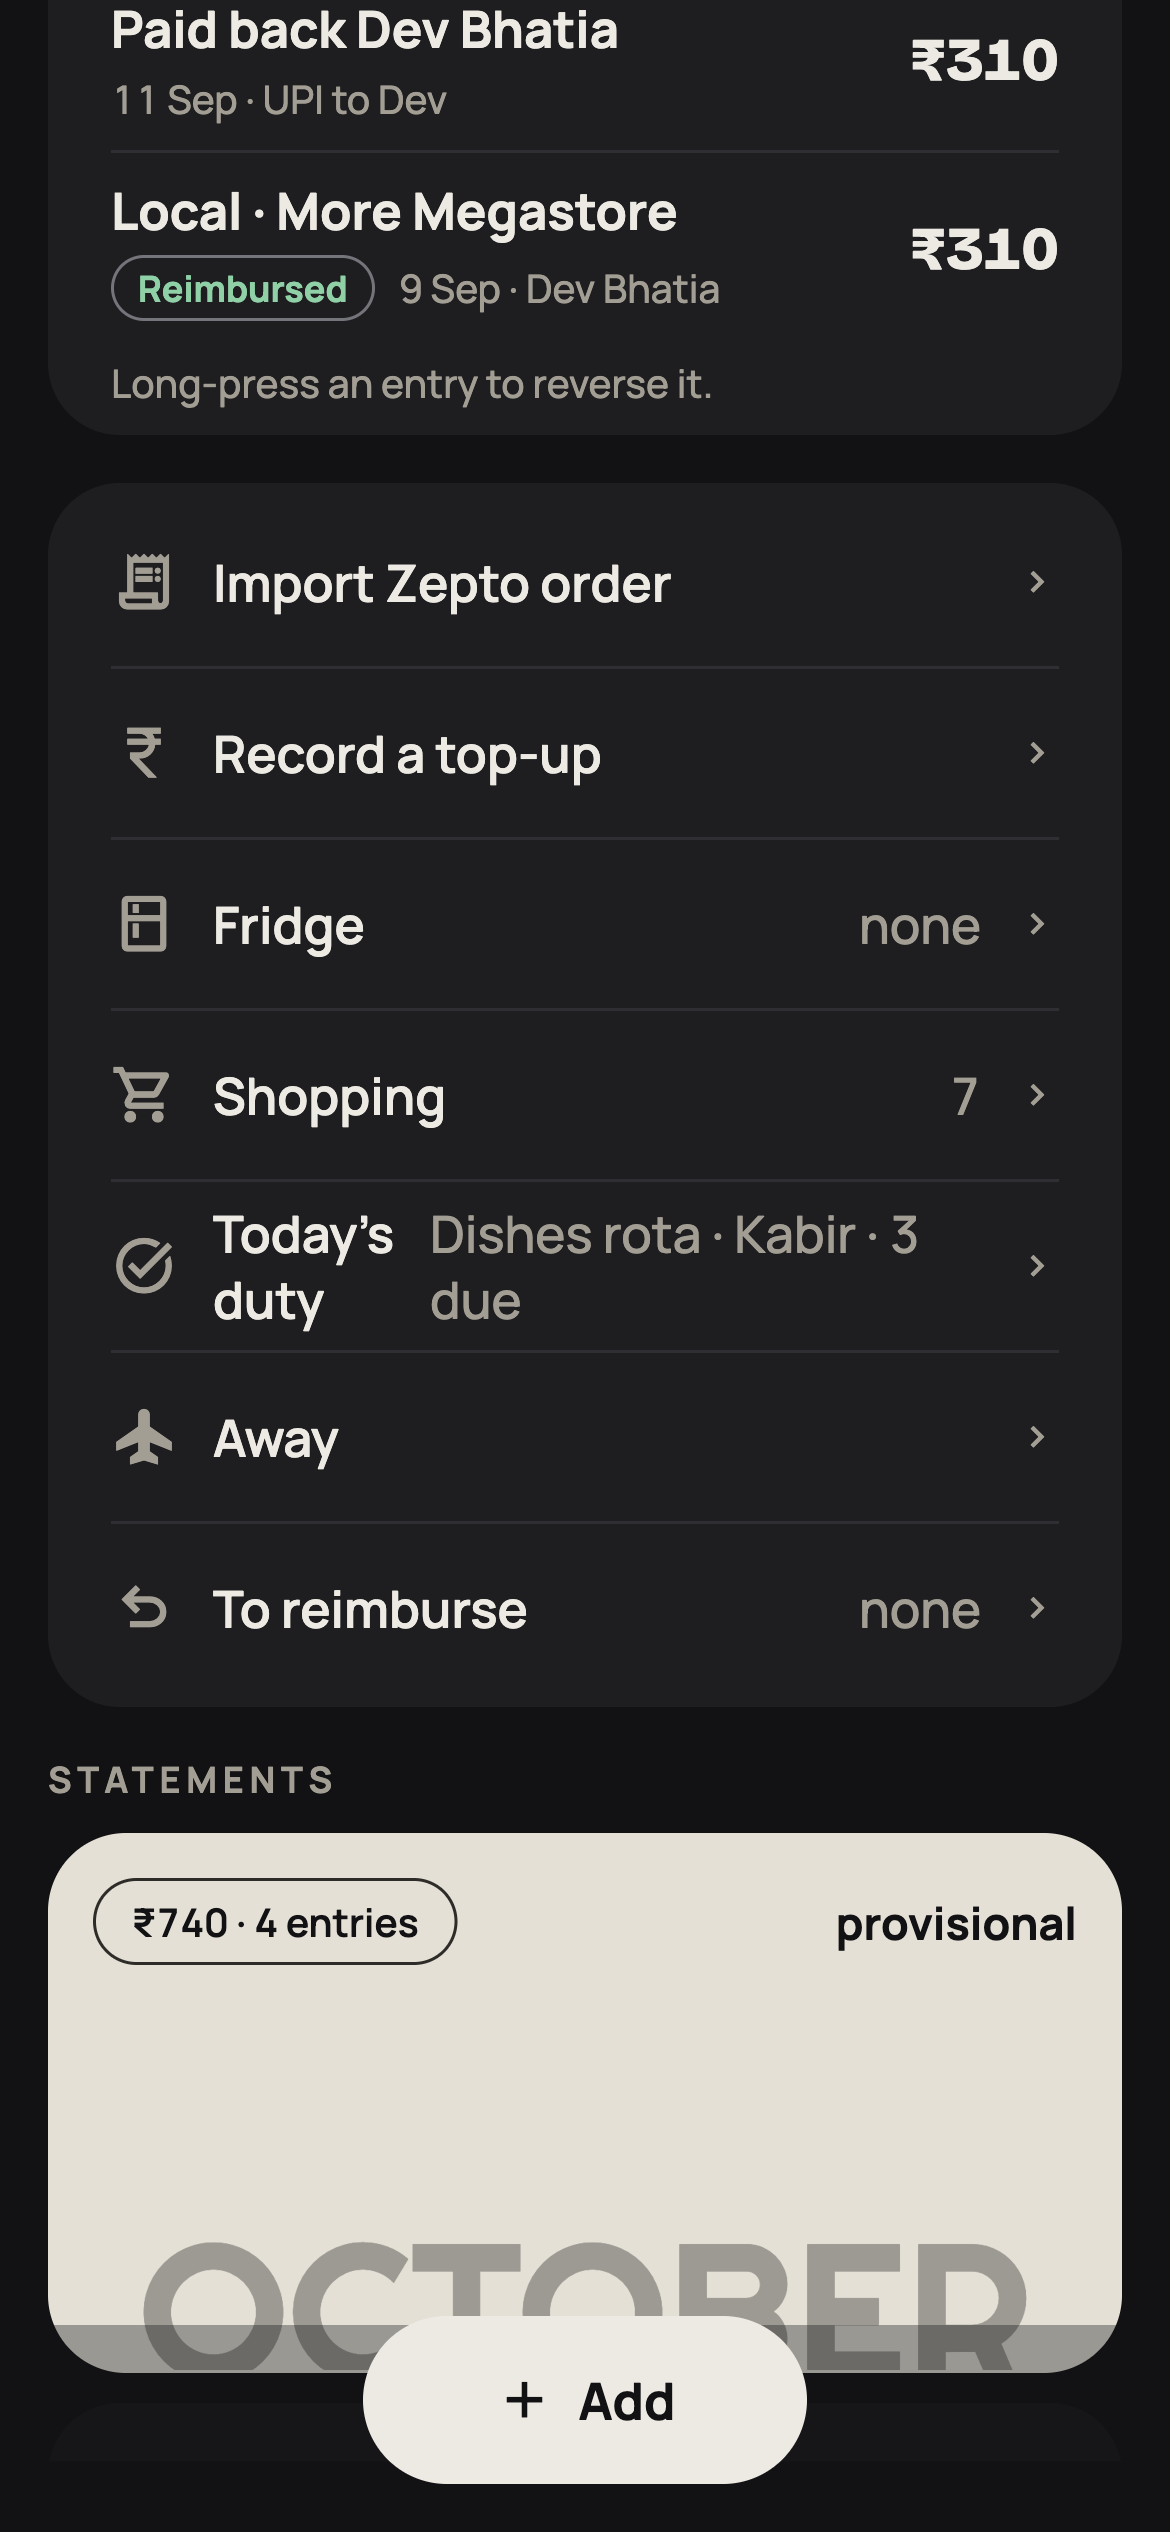
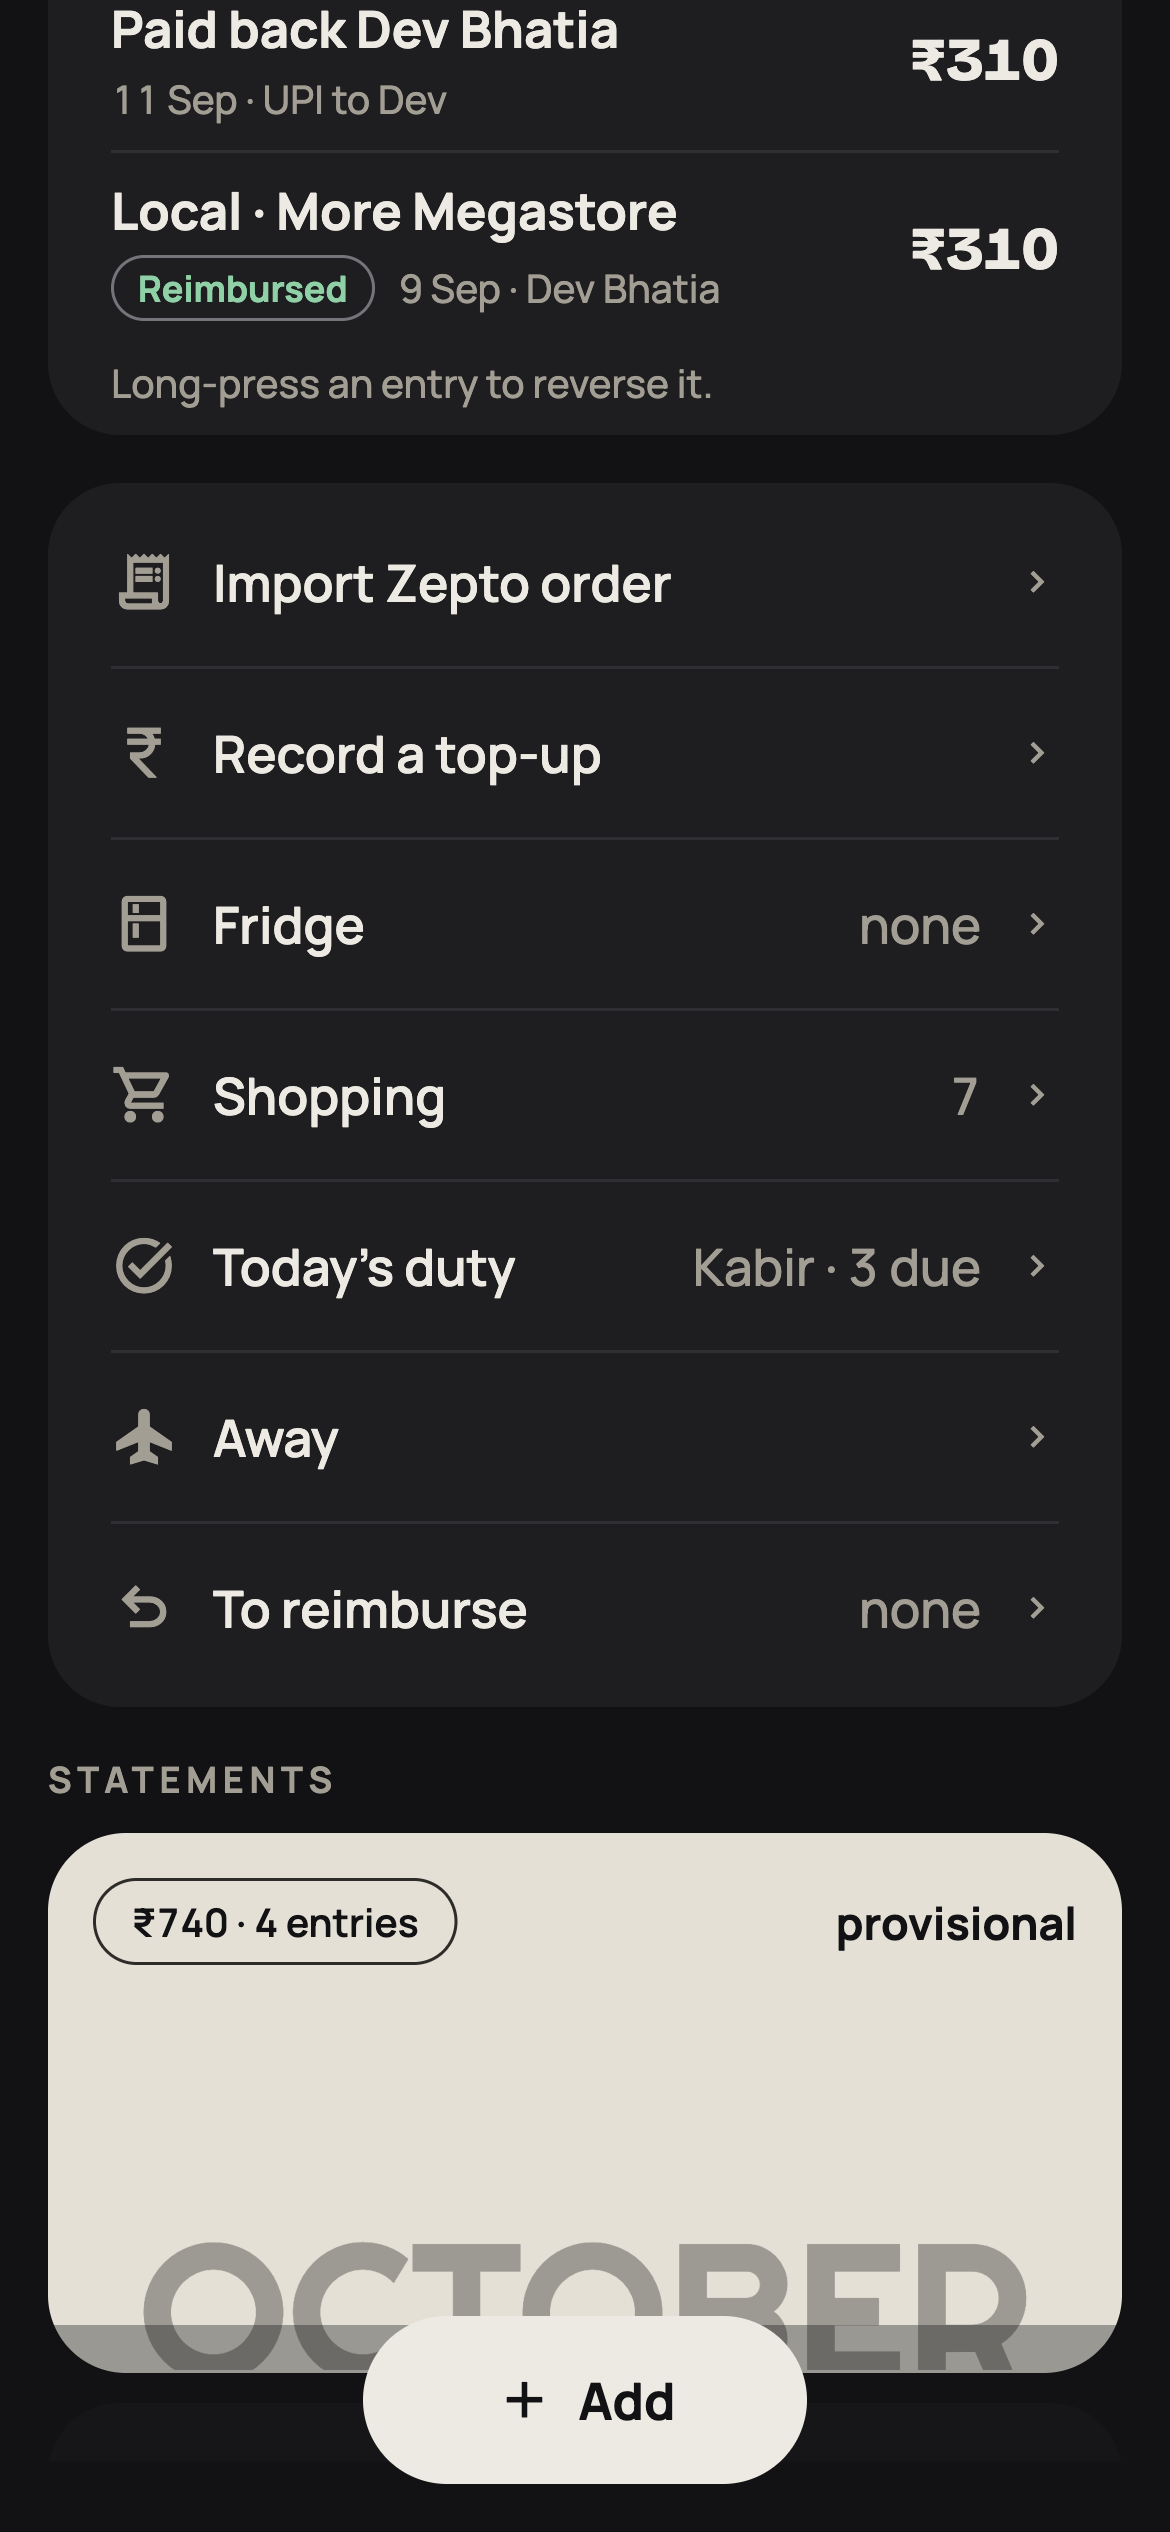
M4 duties: the home row fits on one line
At 390px "Dishes rota · Kabir · 3 due" wrapped the label and the detail
onto two lines, the only Row in the dock that did. When more than one
duty is open the count is the news and /duties lists the names, so the
duty name goes; a single open duty still names itself.

Changed region(s): [[0.1846, 0.468, 0.8308, 0.5304]]

diff --git a/src/app/index.tsx b/src/app/index.tsx
@@ -67,9 +67,19 @@ export default function KittyHome() {
   const openToday = h.todays.filter((r) => isOpen(r.outcome));
   const myTurn = openToday.find((r) => r.memberId === me.id);
   const nextTurn = myTurn ?? openToday[0];
+  const whoseTurn = nextTurn
+    ? myTurn
+      ? 'yours'
+      : nextTurn.memberId
+        ? h.name(nextTurn.memberId).split(' ')[0]
+        : 'nobody free'
+    : '';
+  // ponytail: name + whose turn + count wraps this row onto two lines at 390px. When more than one
+  // is due the count is the news and the screen behind it lists the names, so the name goes.
   const dutyDetail = nextTurn
-    ? `${nextTurn.duty.name} · ${myTurn ? 'yours' : nextTurn.memberId ? h.name(nextTurn.memberId).split(' ')[0] : 'nobody free'}` +
-      (openToday.length > 1 ? ` · ${openToday.length} due` : '')
+    ? openToday.length > 1
+      ? `${whoseTurn} · ${openToday.length} due`
+      : `${nextTurn.duty.name} · ${whoseTurn}`
     : h.todays.length
       ? 'all done'
       : 'none';
